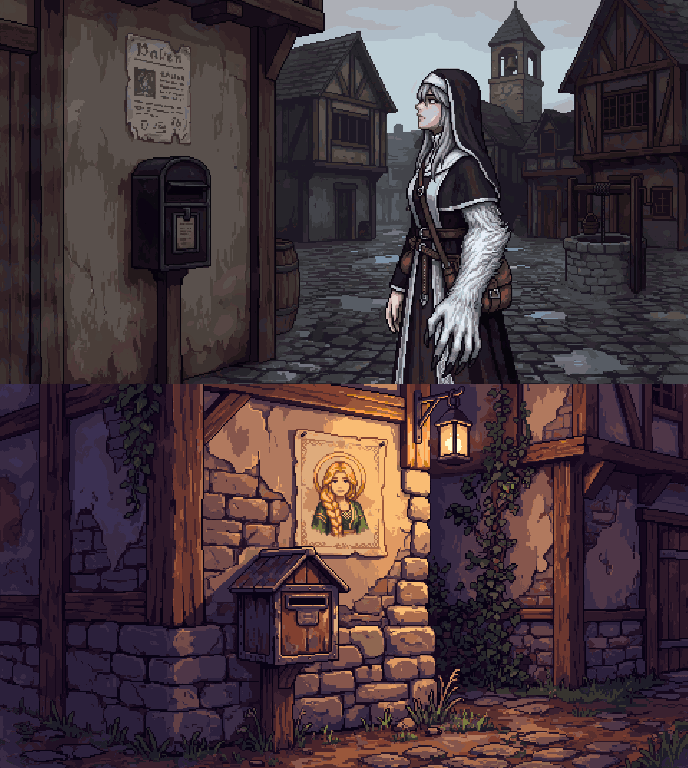
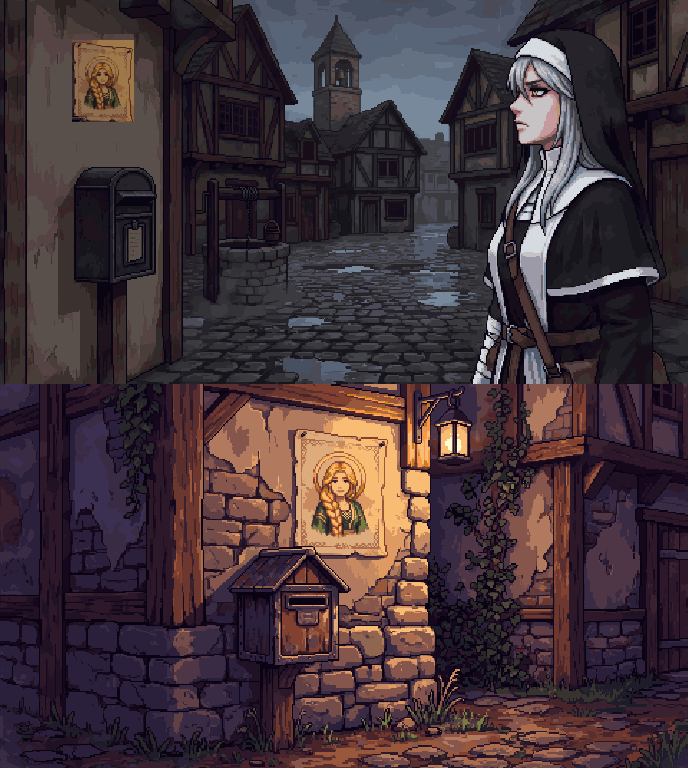
Redraw mira-doesnt-answer shot 1 with the goddess poster from shot 2
Claude-Session: https://claude.ai/code/session_01Mqbwb3vBTod3APyq2XNhsx

diff --git a/game/CREDITS.md b/game/CREDITS.md
@@ -24,7 +24,7 @@ Everything here was first made for or gathered by the first game, [Isekai'd Into
 | The first game's people seven years on, and Grandma Wen as she always looks (`assets/img/portraits/` `aigerim-neutral`, `ayo-neutral`, `bru-smile`, `bru-neutral`, `chad-neutral`, `gary-neutral`, `kaito-neutral`, `mio-neutral`, `wen-neutral`, `wen-smile`, replacing those in the row above) | Generated for this game with [PixelLab](https://pixellab.ai) on Ladi's subscription on 2026-10-21 (`generate-image-v2`): each drawn from the character's first-game portrait (Isekai'd Into Prod) as the likeness, aged seven years (Wen not at all), with this game's earlier portrait as the style image; Ladi's picks, scaled up 3x with hard pixel edges. `bru-neutral` is `bru-smile` with the mouth and cheeks repainted to a neutral face by Google's Gemini image model (gemini-3-pro-image-preview) through the Gemini API on Ladi's account, snapped back to the portrait's own pixels and colours | Used under PixelLab's [Terms of Service](https://pixellab.ai/termsofservice) and the [Gemini API Additional Terms of Service](https://ai.google.dev/gemini-api/terms) | Faces in dialogue |
 | Chapter 5's cutscenes from Lina's Voice to the Lanterns Go Out, and all of Chapter 6's (`assets/img/cut/` `linas-voice`, `linas-voice-dawn`, `the-ledgers`, `the-button`, `a-deal`, `backoff`, `turned-on`, `the-record`, `the-record-ev1`, `the-record-ev2`, `the-record-dark`, `the-shift`, `the-rail`, `the-rail-hold`, `the-rail-let`, `she-nearly-did`, `the-lanterns-go-out`, `the-day-gary-quit`, `the-offer-on-the-jetty`, `the-mirror`, `the-ring-in-the-bunker`, `the-clock-room-intro`, `the-clock-room`, `the-confrontation`, `the-confrontation-shore`, `the-confrontation-copy`, `the-confrontation-bravo`, `no-my-lady`, `switched-sides`, `kagemarus-choice`, `the-backlog`, `the-freed-floors`, each a sheet of 16:9 shots) | Generated for this game with [PixelLab](https://pixellab.ai) on Ladi's subscription on 2026-10-22 (`generate-image-v2`), one still per storyboard shot (`storyboard/ch5`, `storyboard/ch6`), with the cast's portraits as likeness references (young Gary in 1984 from his first-game portrait); `the-mirror` shots 3 and 11 mirrored on 2026-10-24 so Mira's wolf arm is on her right; a few stills touched up by Google's Gemini image model (gemini-3-pro-image-preview) through the Gemini API on Ladi's account. Stacked into sheets by the cutscene pipeline's `gen.py --export` | Used under PixelLab's [Terms of Service](https://pixellab.ai/termsofservice) and the [Gemini API Additional Terms of Service](https://ai.google.dev/gemini-api/terms) | Chapter 5 and 6 cutscenes (`js/cut-ch5b.js`, `js/cut-ch6.js`) |
 | Chapter 2's cutscene stills (`assets/img/cut/` `floor-seven`, `freya-visits`, `hale-escapes`, `she-did-my-taxes`, `sunlight`, `the-dispatches`, `the-grey-novice`, `thornwick-freed`, `three-one-four-cart`, `tilly`, `two-prayers`, `unmake-it`, `uptima-in-chains`, `uptima-reads-the-prayer`, `what-he-felt`, each a sheet of 16:9 shots, and the ghost frames `freya-back` and `freya-projection`) | Generated for this game with [PixelLab](https://pixellab.ai) on Ladi's subscription on 2026-10-22 (`generate-image-v2`), one still per storyboard shot (`storyboard/ch2`), with the cast's portraits as likeness references; `three-one-four-cart` redrawn the same day under its own name. `sunlight` shots 1 and 2 and `uptima-in-chains` shot 5 were redrawn on 2026-10-24 with Mira's wolf arm on her right. Stacked into sheets by the cutscene pipeline's `gen.py --export` | Used under PixelLab's [Terms of Service](https://pixellab.ai/termsofservice) | Chapter 2's cutscenes, in place of the vector stills (`js/cut-ch2.js`) |
-| Chapter 2's first-half cutscene stills (`assets/img/cut/` `brams-wagon`, `the-edge`, `the-tower`, `the-scrap-field`, `the-bunker`, `elder-wren`, `the-first-fire`, `thornwick-square`, `the-post-box`, `mira-doesnt-answer`, `the-sorting-floors`, `floors-grow-back`, `shipped`, each a sheet of 16:9 shots) | Generated for this game with [PixelLab](https://pixellab.ai) on Ladi's subscription on 2026-10-22 (`generate-image-v2`), one still per storyboard shot (`storyboard/ch2a`), with the cast's portraits as likeness references (Coo, Elder Wren and Pip from their portraits); `the-bunker` shot 4 (Mira at the hatch) redrawn the same way on 2026-10-24 to give her one arm from each shoulder. Stacked into sheets by the cutscene pipeline's `gen.py --export` | Used under PixelLab's [Terms of Service](https://pixellab.ai/termsofservice) | Chapter 2's first-half cutscenes, in place of the vector stills (`js/cut-ch2a.js`) |
+| Chapter 2's first-half cutscene stills (`assets/img/cut/` `brams-wagon`, `the-edge`, `the-tower`, `the-scrap-field`, `the-bunker`, `elder-wren`, `the-first-fire`, `thornwick-square`, `the-post-box`, `mira-doesnt-answer`, `the-sorting-floors`, `floors-grow-back`, `shipped`, each a sheet of 16:9 shots) | Generated for this game with [PixelLab](https://pixellab.ai) on Ladi's subscription on 2026-10-22 (`generate-image-v2`), one still per storyboard shot (`storyboard/ch2a`), with the cast's portraits as likeness references (Coo, Elder Wren and Pip from their portraits); `the-bunker` shot 4 (Mira at the hatch) redrawn the same way on 2026-10-24 to give her one arm from each shoulder. `mira-doesnt-answer` shot 1 redrawn the same day with her wolf arm on the far side, and the goddess poster from its shot 2 pasted onto the wall in code. Stacked into sheets by the cutscene pipeline's `gen.py --export` | Used under PixelLab's [Terms of Service](https://pixellab.ai/termsofservice) | Chapter 2's first-half cutscenes, in place of the vector stills (`js/cut-ch2a.js`) |
 | The last drawn cutscenes of Chapters 5 and 6 (`assets/img/cut/` `iris-at-the-gate`, `linas-chart`, `freya-at-camp`, each a sheet of 16:9 shots) | Generated for this game with [PixelLab](https://pixellab.ai) on Ladi's subscription on 2026-10-23 (`generate-image-v2`), one still per storyboard shot (`storyboard/ch56x`), with the cast's portraits as likeness references. Stacked into sheets by the cutscene pipeline's `gen.py --export` | Used under PixelLab's [Terms of Service](https://pixellab.ai/termsofservice) | Professor Iris Vell, Lina's chart and Freya at camp, in place of the vector backdrops (`js/cut-ch56x.js`) |
 | The painted glitch twins (`assets/img/cut/<cutscene>-<shot>-painted.webp`: `uptima-in-chains-3`, `freya-visits-3`, `thornwick-freed-1`, `the-jar-2`, `tell-her-yourself-4`, `jins-echo-4`, `two-tapes-one-4`, `the-ledgers-2`, `the-offer-on-the-jetty-4`, `the-mirror-2`) | Painted for this game by Google's Gemini image model (gemini-3-pro-image-preview) through the Gemini API on Ladi's account on 2026-10-22, each from its pixel still as the reference so the two line up (the cutscene pipeline's `paint.py`); `uptima-in-chains-3` is the earlier painted version of that shot | Used under the [Gemini API Additional Terms of Service](https://ai.google.dev/gemini-api/terms) | The glitch between painted and pixel art in those shots (`js/cut-ch2.js` to `cut-ch6.js`) |
 | Seymour's notes under the hatch (`assets/img/cut/seymours-notes.webp`, four 16:9 shots) | Generated for this game with [PixelLab](https://pixellab.ai) on Ladi's subscription on 2026-10-22 (`generate-image-v2`, one still of a blank page at the foot of the bunker's hatch); the notes' English words lettered onto the page in pixel capitals with Pillow, set in DejaVu Sans Mono Bold (Bitstream Vera licence) | Used under PixelLab's [Terms of Service](https://pixellab.ai/termsofservice); DejaVu fonts under their [free licence](https://dejavu-fonts.github.io/License.html) | Seymour's notes in chapter 2 and chapter 6 (`js/c2-world.js`, `js/c6-world.js`) |
